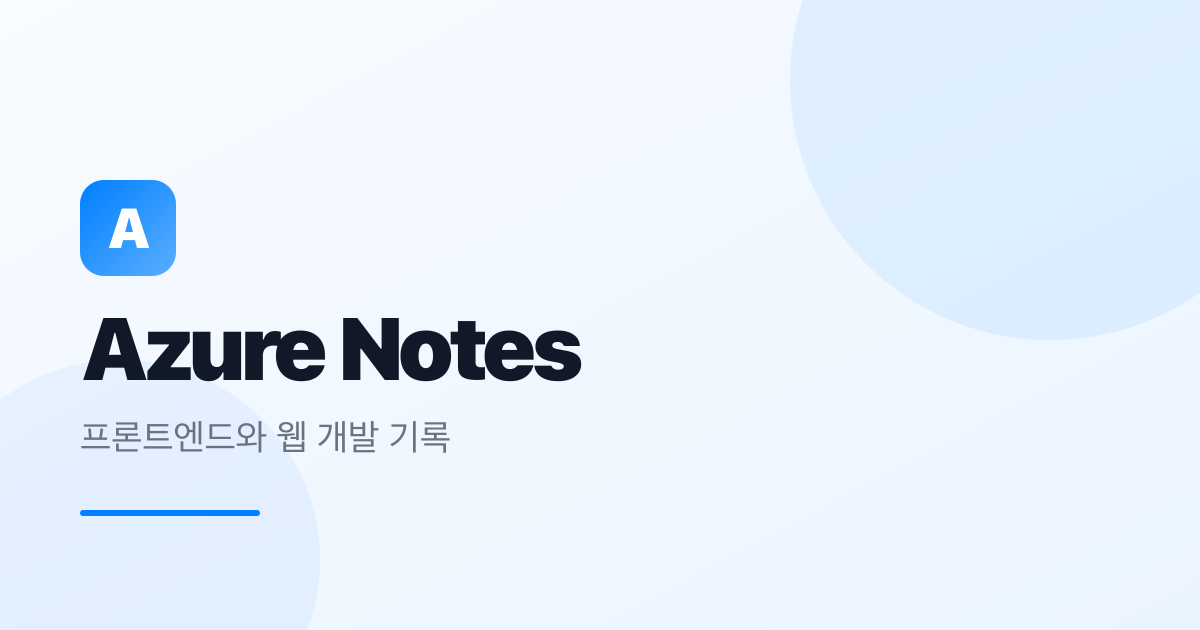
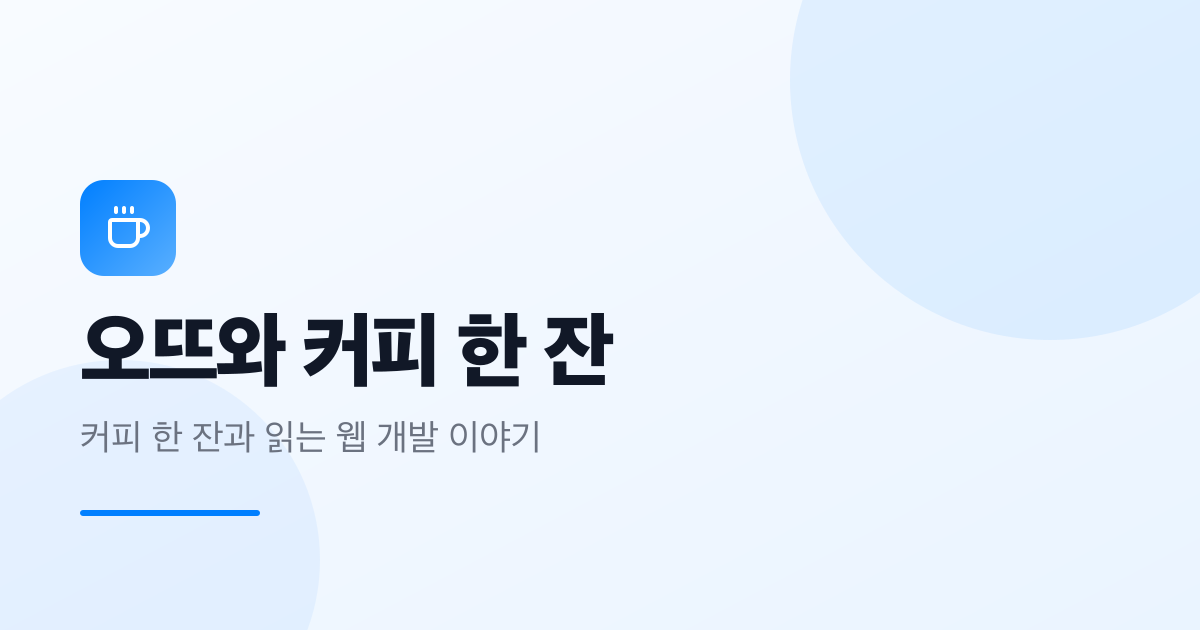
feat: "오뜨와 커피 한 잔"으로 리브랜딩
- 사이트명 Azure Notes → 오뜨와 커피 한 잔, 태그라인 "커피 한 잔과 읽는 웹 개발 이야기"
- 로고/파비콘/apple-touch-icon/OG 이미지(기본+글별 템플릿)를 커피잔 아이콘으로 교체
  (azure 블루 팔레트는 유지)
- BaseLayout이 페이지 제목에 "| 사이트명" 접미사를 자동 부착하도록 변경,
  각 페이지는 짧은 제목만 전달
- 홈 히어로의 자리표시 문구를 실제 브랜드 카피로 교체

Changed region(s): [[0.0617, 0.4825, 0.5242, 0.6333], [0.0617, 0.6635, 0.4625, 0.7238], [0.0925, 0.3317, 0.1233, 0.3921]]

diff --git a/src/pages/og/[slug].png.ts b/src/pages/og/[slug].png.ts
@@ -87,12 +87,27 @@ export async function GET({ props }: APIContext) {
             height: "72px",
             borderRadius: "20px",
             background: "linear-gradient(135deg, #007FFF, #59AFFF)",
-            color: "#ffffff",
-            fontSize: "40px",
-            fontWeight: 800,
           },
         },
-        "A",
+        element(
+          "svg",
+          {
+            width: 40,
+            height: 40,
+            viewBox: "0 0 24 24",
+            fill: "none",
+            stroke: "#ffffff",
+            strokeWidth: 2,
+            strokeLinecap: "round",
+            strokeLinejoin: "round",
+          },
+          element("path", { d: "M10 2v2" }),
+          element("path", { d: "M14 2v2" }),
+          element("path", {
+            d: "M16 8a1 1 0 0 1 1 1v8a4 4 0 0 1-4 4H7a4 4 0 0 1-4-4V9a1 1 0 0 1 1-1h14a4 4 0 1 1 0 8h-1",
+          }),
+          element("path", { d: "M6 2v2" }),
+        ),
       ),
       element(
         "div",

diff --git a/src/consts.ts b/src/consts.ts
@@ -1,6 +1,5 @@
-export const SITE_TITLE = "Azure Notes";
-export const SITE_DESCRIPTION =
-  "프론트엔드와 웹 개발 기록을 남기는 Astro 기술 블로그";
+export const SITE_TITLE = "오뜨와 커피 한 잔";
+export const SITE_DESCRIPTION = "커피 한 잔과 읽는 웹 개발 이야기";
 export const SITE_AUTHOR = "개발자 오뜨";
 
 /** giscus 댓글 설정 — https://github.com/apps/giscus 앱이 저장소에 설치되어 있어야 동작 */

diff --git a/README.md b/README.md
@@ -1,6 +1,6 @@
-# Azure Notes
+# 오뜨와 커피 한 잔
 
-007FFF 컬러를 기반으로 브랜딩한 Astro 기술 블로그입니다.
+커피 한 잔과 읽는 웹 개발 이야기 — Astro 기반 기술 블로그입니다.
 
 ## 실행
 